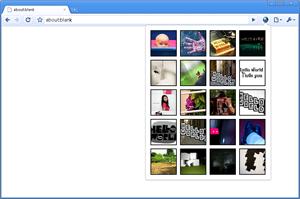
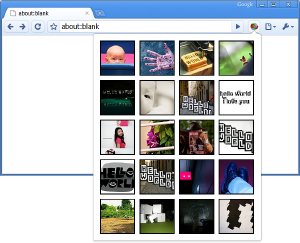
Cleanup pass on Getting Started.
Copyedited it, and updated it to use new icons,
new screenshots, and the new examples directory.
I'll remove the samples directory once the
debugging tutorial is updated.

BUG=none
TEST=none
TBR=aa

Review URL: http://codereview.chromium.org/384136

git-svn-id: svn://svn.chromium.org/chrome/trunk/src@31969 0039d316-1c4b-4281-b951-d872f2087c98

diff --git a/chrome/common/extensions/docs/static/getstarted.html b/chrome/common/extensions/docs/static/getstarted.html
@@ -3,13 +3,13 @@
 
 <p>
 This tutorial walks you through creating a simple extension.
-You'll add a button to Google Chrome
+You'll add an icon to Google Chrome
 that, when clicked, displays an automatically generated page.
-The button and page will look something like this:
+The icon and page will look something like this:
 </p>
 
 <img src="images/hello-world-small.png"
-  width="300" height="199"
+  width="300" height="243"
   alt="a window with a grid of images related to HELLO WORLD" />
 
 
@@ -46,14 +46,14 @@ to the toolbar of Google Chrome.
     create a text file called <strong><code>manifest.json</code></strong>,
     and put this in it:
 <pre>{
-  &quot;name&quot;: &quot;My First Extension&quot;,
-  &quot;version&quot;: &quot;1.0&quot;,
-  &quot;description&quot;: &quot;The first extension that I made.&quot;,
-  &quot;browser_action&quot;: {
-    &quot;"default_icon": "icon.png"&quot;
+  "name": "My First Extension",
+  "version": "1.0",
+  "description": "The first extension that I made.",
+  "browser_action": {
+    "default_icon": "icon.png"
   },
-  &quot;permissions&quot;: [
-    &quot;http://api.flickr.com/&quot;
+  "permissions": [
+    "http://api.flickr.com/"
   ]
 }</pre>
   </li>
@@ -62,10 +62,10 @@ to the toolbar of Google Chrome.
     <table cellpadding="0" cellspacing="0">
       <tr>
         <td style="text-align:center; border:0;"><a
-          href="samples/hello_world/icon.png"
-            ><img src="samples/hello_world/icon.png"
+          href="examples/tutorials/getstarted/icon.png"
+            ><img src="examples/tutorials/getstarted/icon.png"
               width="19" height="19" border="0"></a><br>
-          <a href="samples/hello_world/icon.png"
+          <a href="examples/tutorials/getstarted/icon.png"
             >Download icon.png</a></td>
       </tr>
     </table>
@@ -73,7 +73,18 @@ to the toolbar of Google Chrome.
   <li> Load the extension.
     <ol type="a">
       <li>
-      Bring up the Extensions management page by clicking the wrench icon, and selecting the "Extensions" menu item.
+      Bring up the extensions management page
+      by clicking the Tools menu
+      <img src="images/toolsmenu.gif" width="43" height="34" alt=""
+           align="absmiddle">
+      and choosing <b>Extensions</b>.
+      </li>
+
+      <li>
+      If <b>Developer mode</b> has a + by it,
+      click the + to add developer information to the page.
+      The + changes to a -,
+      and more buttons and information appear.
       </li>
 
       <li>
@@ -85,23 +96,23 @@ to the toolbar of Google Chrome.
       In the file dialog,
       navigate to your extension's folder
       (<code>c:\myext</code>, for example)
-      and click the <b>OK</b> button.
+      and click <b>OK</b>.
       </li>
     </ol> </li>
   </ol>
 
 <p>
 If your extension is valid,
-information about it
-appears in the <b>Installed extensions</b> part
-of the Extensions page,
+its icon appears next to the address bar,
+and information about the extension
+appears in the extensions page,
 as the following screenshot shows.
 </p>
 
 <p>
 <a href="images/load_after.png"><img
   src="images/load_after_small.png"
-  width="327" height="206" /></a>
+  width="300" height="194" /></a>
 </p>
 
 <h2 id="code">Add code to the extension</h2>
@@ -112,28 +123,30 @@ as the following screenshot shows.
 <pre>
   ...
   "browser_action": {
-    "default_icon": "icon.png",
-    <b style="background:yellow">"popup": "popup.html"</b>
+    "default_icon": "icon.png"<b>,
+    "popup": "popup.html"</b>
   },
   ...
 </pre>
     <p> Inside your extension's folder,
     create a text file called <strong><code>popup.html</code></strong>,
     and add the following code to it:</p>
-    <blockquote> <a href="samples/hello_world/popup.html" onclick="window.open('view-source:' + this.href); return false;">CSS
+    <blockquote> <a href="http://src.chromium.org/viewvc/chrome/trunk/src/chrome/common/extensions/docs/examples/tutorials/getstarted/popup.html?content-type=text/plain"
+    target="_blank">CSS
     and JavaScript code for hello_world</a></blockquote>
   </li>
   <li>
-    Return to <b>chrome://extensions</b>,
+    Return to the extensions management page,
     and click the <b>Reload</b> button
     to load the new version of the extension.</li>
-  <li>Click the button.
-  A popup bubble should come up that displays <code>popup.html</code>. </li>
+  <li>Click the extension's icon.
+  A popup should appear that displays the contents of
+  <code>popup.html</code>. </li>
 </ol>
 <p> It should look something like this:</p>
 
 <img src="images/hello-world.png"
-  width="583" height="387"
+  width="500" height="405"
   alt="a popup with a grid of images related to HELLO WORLD" />
 
 <p> If you don't see the popup,
@@ -172,6 +185,6 @@ Here are some suggestions for what to do next:
   </li>
   <li>
     Look at some
-    <a href="http://sites.google.com/a/chromium.org/dev/developers/design-documents/extensions/samples">sample extensions</a>
+    <a href="samples.html">sample extensions</a>
   </li>
 </ul>

diff --git a/chrome/common/extensions/docs/getstarted.html b/chrome/common/extensions/docs/getstarted.html
@@ -239,12 +239,12 @@
 
 <p>
 This tutorial walks you through creating a simple extension.
-You'll add a button to Google Chrome
+You'll add an icon to Google Chrome
 that, when clicked, displays an automatically generated page.
-The button and page will look something like this:
+The icon and page will look something like this:
 </p>
 
-<img src="images/hello-world-small.png" width="300" height="199" alt="a window with a grid of images related to HELLO WORLD">
+<img src="images/hello-world-small.png" width="300" height="243" alt="a window with a grid of images related to HELLO WORLD">
 
 
 <h2 id="browser">Get your browser ready</h2>
@@ -284,7 +284,7 @@ to the toolbar of Google Chrome.
   "version": "1.0",
   "description": "The first extension that I made.",
   "browser_action": {
-    ""default_icon": "icon.png""
+    "default_icon": "icon.png"
   },
   "permissions": [
     "http://api.flickr.com/"
@@ -295,15 +295,25 @@ to the toolbar of Google Chrome.
     Copy this icon to the same folder:<br>
     <table cellpadding="0" cellspacing="0">
       <tbody><tr>
-        <td style="text-align:center; border:0;"><a href="samples/hello_world/icon.png"><img src="samples/hello_world/icon.png" width="19" height="19" border="0"></a><br>
-          <a href="samples/hello_world/icon.png">Download icon.png</a></td>
+        <td style="text-align:center; border:0;"><a href="examples/tutorials/getstarted/icon.png"><img src="examples/tutorials/getstarted/icon.png" width="19" height="19" border="0"></a><br>
+          <a href="examples/tutorials/getstarted/icon.png">Download icon.png</a></td>
       </tr>
     </tbody></table>
   </li>
   <li> Load the extension.
     <ol type="a">
       <li>
-      Bring up the Extensions management page by clicking the wrench icon, and selecting the "Extensions" menu item.
+      Bring up the extensions management page
+      by clicking the Tools menu
+      <img src="images/toolsmenu.gif" width="43" height="34" alt="" align="absmiddle">
+      and choosing <b>Extensions</b>.
+      </li>
+
+      <li>
+      If <b>Developer mode</b> has a + by it,
+      click the + to add developer information to the page.
+      The + changes to a -,
+      and more buttons and information appear.
       </li>
 
       <li>
@@ -315,21 +325,21 @@ to the toolbar of Google Chrome.
       In the file dialog,
       navigate to your extension's folder
       (<code>c:\myext</code>, for example)
-      and click the <b>OK</b> button.
+      and click <b>OK</b>.
       </li>
     </ol> </li>
   </ol>
 
 <p>
 If your extension is valid,
-information about it
-appears in the <b>Installed extensions</b> part
-of the Extensions page,
+its icon appears next to the address bar,
+and information about the extension
+appears in the extensions page,
 as the following screenshot shows.
 </p>
 
 <p>
-<a href="images/load_after.png"><img src="images/load_after_small.png" width="327" height="206"></a>
+<a href="images/load_after.png"><img src="images/load_after_small.png" width="300" height="194"></a>
 </p>
 
 <h2 id="code">Add code to the extension</h2>
@@ -339,27 +349,28 @@ as the following screenshot shows.
     <p> Edit <code>manifest.json</code> to add the following line:</p>
 <pre>  ...
   "browser_action": {
-    "default_icon": "icon.png",
-    <b style="background:yellow">"popup": "popup.html"</b>
+    "default_icon": "icon.png"<b>,
+    "popup": "popup.html"</b>
   },
   ...
 </pre>
     <p> Inside your extension's folder,
     create a text file called <strong><code>popup.html</code></strong>,
     and add the following code to it:</p>
-    <blockquote> <a href="samples/hello_world/popup.html" onclick="window.open('view-source:' + this.href); return false;">CSS
+    <blockquote> <a href="http://src.chromium.org/viewvc/chrome/trunk/src/chrome/common/extensions/docs/examples/tutorials/getstarted/popup.html?content-type=text/plain" target="_blank">CSS
     and JavaScript code for hello_world</a></blockquote>
   </li>
   <li>
-    Return to <b>chrome://extensions</b>,
+    Return to the extensions management page,
     and click the <b>Reload</b> button
     to load the new version of the extension.</li>
-  <li>Click the button.
-  A popup bubble should come up that displays <code>popup.html</code>. </li>
+  <li>Click the extension's icon.
+  A popup should appear that displays the contents of
+  <code>popup.html</code>. </li>
 </ol>
 <p> It should look something like this:</p>
 
-<img src="images/hello-world.png" width="583" height="387" alt="a popup with a grid of images related to HELLO WORLD">
+<img src="images/hello-world.png" width="500" height="405" alt="a popup with a grid of images related to HELLO WORLD">
 
 <p> If you don't see the popup,
 try the instructions again,
@@ -397,7 +408,7 @@ Here are some suggestions for what to do next:
   </li>
   <li>
     Look at some
-    <a href="http://sites.google.com/a/chromium.org/dev/developers/design-documents/extensions/samples">sample extensions</a>
+    <a href="samples.html">sample extensions</a>
   </li>
 </ul>
 </div>

diff --git a/chrome/common/extensions/docs/examples/tutorials/getstarted/popup.html b/chrome/common/extensions/docs/examples/tutorials/getstarted/popup.html
@@ -1,0 +1,50 @@
+<style>
+body {
+  min-width:357px;
+  overflow-x:hidden;
+}
+
+img {
+  margin:5px;
+  border:2px solid black;
+  vertical-align:middle;
+  width:75px;
+  height:75px;
+}
+</style>
+
+<script>
+var req = new XMLHttpRequest();
+req.open(
+    "GET",
+    "http://api.flickr.com/services/rest/?" +
+        "method=flickr.photos.search&" +
+        "api_key=90485e931f687a9b9c2a66bf58a3861a&" +
+        "text=hello%20world&" +
+        "safe_search=1&" +  // 1 is "safe"
+        "content_type=1&" +  // 1 is "photos only"
+        "sort=relevance&" +  // another good one is "interestingness-desc"
+        "per_page=20",
+    true);
+req.onload = showPhotos;
+req.send(null);
+
+function showPhotos() {
+  var photos = req.responseXML.getElementsByTagName("photo");
+
+  for (var i = 0, photo; photo = photos[i]; i++) {
+    var img = document.createElement("image");
+    img.src = constructImageURL(photo);
+    document.body.appendChild(img);
+  }
+}
+
+// See: http://www.flickr.com/services/api/misc.urls.html
+function constructImageURL(photo) {
+  return "http://farm" + photo.getAttribute("farm") +
+      ".static.flickr.com/" + photo.getAttribute("server") +
+      "/" + photo.getAttribute("id") +
+      "_" + photo.getAttribute("secret") +
+      "_s.jpg";
+}
+</script>
